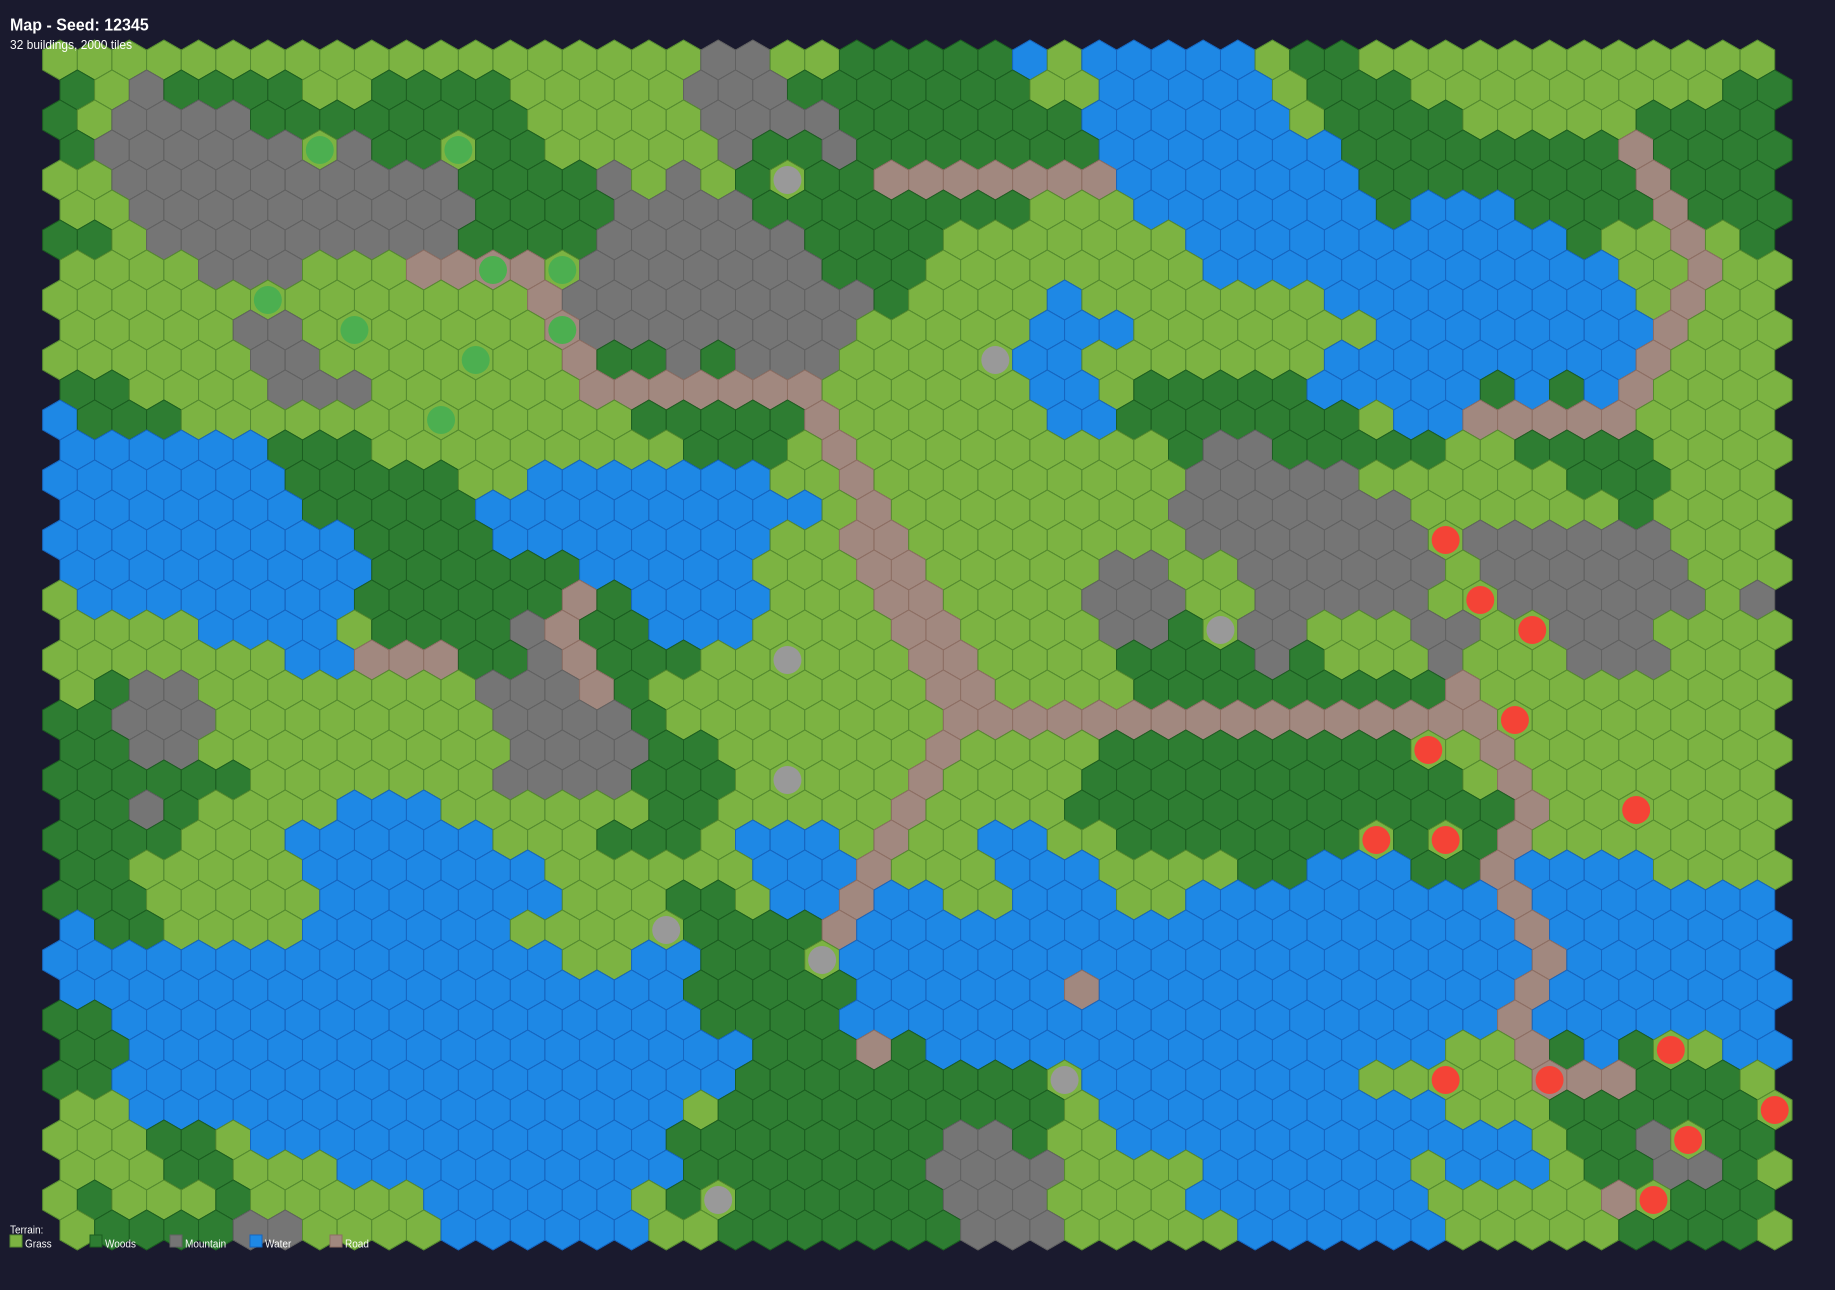
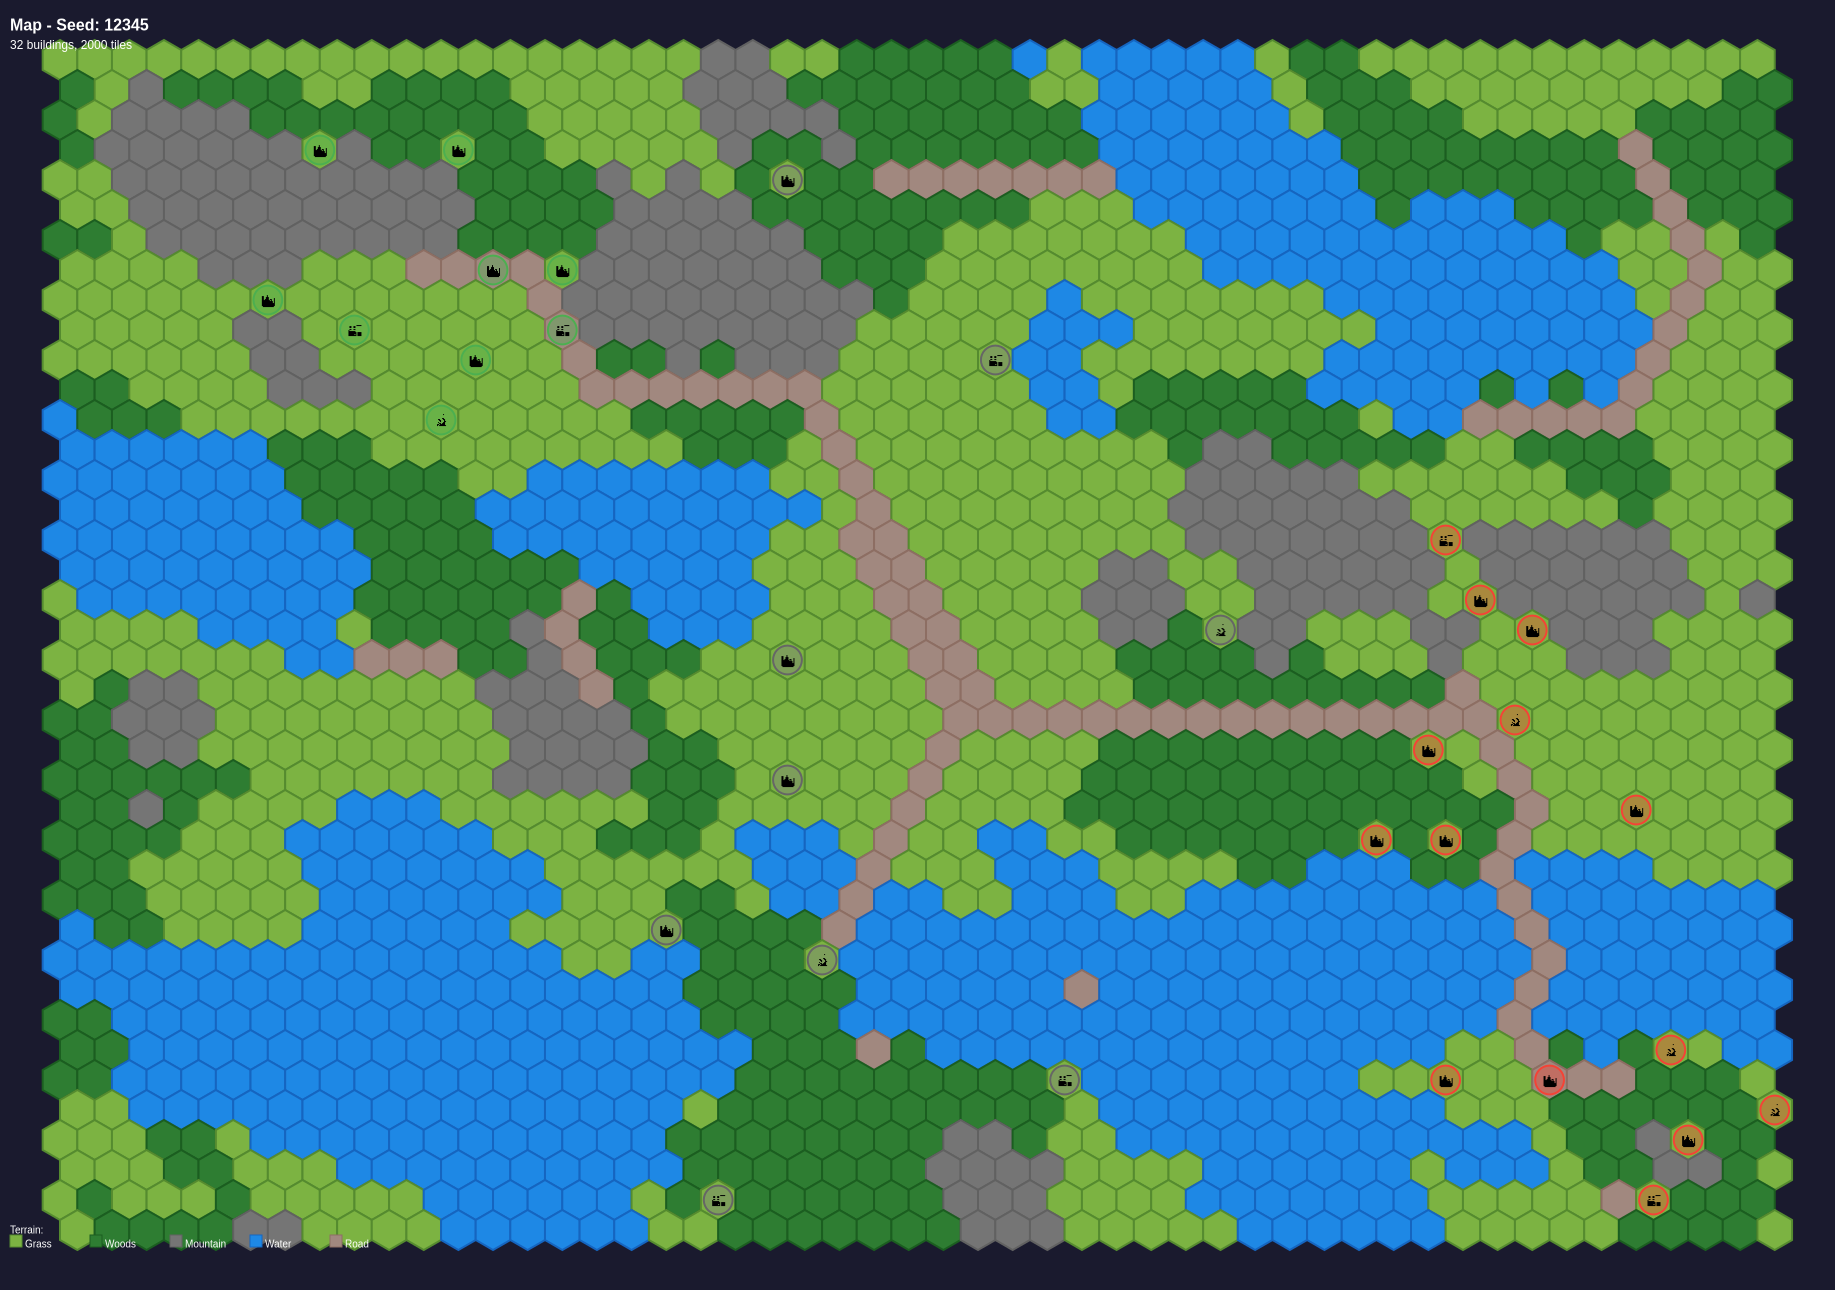
Refactor: Extract shared rendering utilities to eliminate code duplication
Tech debt cleanup to ensure game renderer and map rendering script stay in sync.

Changes:
- Created src/rendering-utils.ts with shared rendering functions:
  - drawHex(): Draws hexagon tiles with consistent styling
  - drawBuildingIcon(): Draws building icons with ownership indicators

- Updated src/renderer.ts to use shared utilities:
  - Simplified drawHex() to use drawHexBase()
  - Simplified drawBuilding() to use drawBuildingIcon()

- Updated scripts/render-maps.ts to use shared utilities:
  - Removed duplicate drawHex() function
  - Removed duplicate building rendering code

Benefits:
- Single source of truth for rendering logic
- Changes to hex/building appearance automatically apply to both game and static renders
- Ensures generated map images accurately reflect in-game appearance
- Reduces maintenance burden

All builds and map rendering tested successfully.

diff --git a/src/renderer.ts b/src/renderer.ts
@@ -7,9 +7,10 @@ import { CONFIG } from './config.js';
 import { GameMap } from './game-map.js';
 import { Viewport } from './viewport.js';
 import { Unit } from './unit.js';
-import { BUILDING_ICONS, type Building } from './building.js';
+import { type Building } from './building.js';
 import { type UnitTemplate } from './unit-templates.js';
 import { type TeamResources } from './resources.js';
+import { drawHex as drawHexBase, drawBuildingIcon } from './rendering-utils.js';
 
 export interface PathPreview {
   path: AxialCoord[];
@@ -287,21 +288,9 @@ export class Renderer {
   private drawHex(cx: number, cy: number, tile: Tile, isHovered: boolean, zoom: number): void {
     const ctx = this.ctx;
     const size = CONFIG.hexSize * zoom;
-    const corners = HexUtil.getHexCorners(cx, cy, size);
-    const colors = TILE_COLORS[tile.type];
 
-    ctx.beginPath();
-    ctx.moveTo(corners[0]!.x, corners[0]!.y);
-    for (let i = 1; i < 6; i++) {
-      ctx.lineTo(corners[i]!.x, corners[i]!.y);
-    }
-    ctx.closePath();
-
-    ctx.fillStyle = colors.fill;
-    ctx.fill();
-    ctx.strokeStyle = colors.stroke;
-    ctx.lineWidth = Math.max(1, 2 * zoom);
-    ctx.stroke();
+    // Use shared rendering utility for base hex drawing
+    drawHexBase(ctx as any, cx, cy, tile, size, { zoom, isHovered });
 
     // Check for building at this tile
     const building = this.map.getBuilding(tile.q, tile.r);
@@ -318,68 +307,13 @@ export class Renderer {
         ctx.fillText(icon, cx, cy);
       }
     }
-
-    if (isHovered) {
-      ctx.fillStyle = 'rgba(255, 255, 255, 0.25)';
-      ctx.fill();
-      ctx.strokeStyle = '#ffffff';
-      ctx.lineWidth = Math.max(1, 3 * zoom);
-      ctx.stroke();
-    }
   }
 
   private drawBuilding(cx: number, cy: number, building: Building, zoom: number, hasUnit: boolean): void {
-    const ctx = this.ctx;
-    const size = CONFIG.hexSize * zoom * 0.6;
-
-    // Draw team color background - larger ring if unit is on top
-    const ringSize = hasUnit ? CONFIG.hexSize * zoom * 0.85 : size * 0.9;
-    const ringWidth = hasUnit ? 4 * zoom : 2 * zoom;
-
-    if (building.owner) {
-      const teamColor = TEAM_COLORS[building.owner];
-      if (teamColor) {
-        ctx.beginPath();
-        ctx.arc(cx, cy, ringSize, 0, Math.PI * 2);
-        if (!hasUnit) {
-          ctx.fillStyle = teamColor.primary + '60'; // 60 = ~37% opacity
-          ctx.fill();
-        }
-        ctx.strokeStyle = teamColor.primary;
-        ctx.lineWidth = ringWidth;
-        ctx.stroke();
-      }
-    } else {
-      // Neutral building - gray background
-      ctx.beginPath();
-      ctx.arc(cx, cy, ringSize, 0, Math.PI * 2);
-      if (!hasUnit) {
-        ctx.fillStyle = 'rgba(128, 128, 128, 0.4)';
-        ctx.fill();
-      }
-      ctx.strokeStyle = '#666666';
-      ctx.lineWidth = ringWidth;
-      ctx.stroke();
-    }
-
-    // Draw building icon (smaller and offset if unit present)
+    // Use shared rendering utility for building icons
     if (zoom > 0.3) {
-      const icon = BUILDING_ICONS[building.type];
-      if (hasUnit) {
-        // Draw small icon in corner
-        const iconSize = size * 0.6;
-        const offsetX = CONFIG.hexSize * zoom * 0.5;
-        const offsetY = -CONFIG.hexSize * zoom * 0.5;
-        ctx.font = `${iconSize}px Arial`;
-        ctx.textAlign = 'center';
-        ctx.textBaseline = 'middle';
-        ctx.fillText(icon, cx + offsetX, cy + offsetY);
-      } else {
-        ctx.font = `${size}px Arial`;
-        ctx.textAlign = 'center';
-        ctx.textBaseline = 'middle';
-        ctx.fillText(icon, cx, cy);
-      }
+      const size = CONFIG.hexSize * zoom * 0.6;
+      drawBuildingIcon(this.ctx as any, cx, cy, building, size, { zoom, hasUnit });
     }
   }
 

diff --git a/src/rendering-utils.ts b/src/rendering-utils.ts
@@ -1,0 +1,138 @@
+// ============================================================================
+// HEX DOMINION - Shared Rendering Utilities
+// ============================================================================
+// This module contains rendering logic shared between the game renderer
+// and the map rendering script, ensuring consistency.
+
+import { HexUtil, TILE_COLORS, type Tile } from './core.js';
+import { BUILDING_ICONS, type Building } from './building.js';
+
+export interface CanvasContext {
+  beginPath(): void;
+  moveTo(x: number, y: number): void;
+  lineTo(x: number, y: number): void;
+  closePath(): void;
+  fill(): void;
+  stroke(): void;
+  arc(x: number, y: number, radius: number, startAngle: number, endAngle: number): void;
+  fillText(text: string, x: number, y: number): void;
+  fillStyle: string;
+  strokeStyle: string;
+  lineWidth: number;
+  font: string;
+  textAlign: string;
+  textBaseline: string;
+}
+
+/**
+ * Draw a hexagon tile at the given position
+ */
+export function drawHex(
+  ctx: CanvasContext,
+  cx: number,
+  cy: number,
+  tile: Tile,
+  size: number,
+  options: {
+    zoom?: number;
+    isHovered?: boolean;
+  } = {}
+): void {
+  const zoom = options.zoom ?? 1;
+  const isHovered = options.isHovered ?? false;
+
+  const corners = HexUtil.getHexCorners(cx, cy, size);
+  const colors = TILE_COLORS[tile.type];
+
+  ctx.beginPath();
+  ctx.moveTo(corners[0]!.x, corners[0]!.y);
+  for (let i = 1; i < 6; i++) {
+    ctx.lineTo(corners[i]!.x, corners[i]!.y);
+  }
+  ctx.closePath();
+
+  ctx.fillStyle = colors.fill;
+  ctx.fill();
+  ctx.strokeStyle = colors.stroke;
+  ctx.lineWidth = Math.max(1, 2 * zoom);
+  ctx.stroke();
+
+  if (isHovered) {
+    ctx.fillStyle = 'rgba(255, 255, 255, 0.25)';
+    ctx.fill();
+    ctx.strokeStyle = '#ffffff';
+    ctx.lineWidth = Math.max(1, 3 * zoom);
+    ctx.stroke();
+  }
+}
+
+/**
+ * Draw a building icon with ownership indicator
+ */
+export function drawBuildingIcon(
+  ctx: CanvasContext,
+  cx: number,
+  cy: number,
+  building: Building,
+  size: number,
+  options: {
+    zoom?: number;
+    hasUnit?: boolean;
+  } = {}
+): void {
+  const zoom = options.zoom ?? 1;
+  const hasUnit = options.hasUnit ?? false;
+  const iconSize = size * (hasUnit ? 0.6 : 1);
+
+  // Draw ownership ring
+  const ringSize = hasUnit ? size * 1.4 : size * 1.2;
+  const ringWidth = hasUnit ? 4 * zoom : 2 * zoom;
+
+  ctx.beginPath();
+  ctx.arc(cx, cy, ringSize, 0, Math.PI * 2);
+
+  if (building.owner === 'player') {
+    if (!hasUnit) {
+      ctx.fillStyle = '#4caf5060'; // Green with transparency
+      ctx.fill();
+    }
+    ctx.strokeStyle = '#4caf50';
+  } else if (building.owner === 'enemy') {
+    if (!hasUnit) {
+      ctx.fillStyle = '#f4433660'; // Red with transparency
+      ctx.fill();
+    }
+    ctx.strokeStyle = '#f44336';
+  } else {
+    // Neutral
+    if (!hasUnit) {
+      ctx.fillStyle = 'rgba(128, 128, 128, 0.4)';
+      ctx.fill();
+    }
+    ctx.strokeStyle = '#666666';
+  }
+
+  ctx.lineWidth = ringWidth;
+  ctx.stroke();
+
+  // Draw building icon
+  const icon = BUILDING_ICONS[building.type];
+
+  if (hasUnit) {
+    // Small icon in corner when unit is present
+    const offsetX = size * 0.8;
+    const offsetY = -size * 0.8;
+    ctx.font = `${iconSize}px Arial`;
+    ctx.textAlign = 'center';
+    ctx.textBaseline = 'middle';
+    ctx.fillStyle = '#000000';
+    ctx.fillText(icon, cx + offsetX, cy + offsetY);
+  } else {
+    // Centered icon when no unit
+    ctx.font = `${iconSize}px Arial`;
+    ctx.textAlign = 'center';
+    ctx.textBaseline = 'middle';
+    ctx.fillStyle = '#000000';
+    ctx.fillText(icon, cx, cy);
+  }
+}

diff --git a/scripts/render-maps.ts b/scripts/render-maps.ts
@@ -6,9 +6,9 @@
 import { createCanvas } from 'canvas';
 import { writeFileSync, mkdirSync } from 'fs';
 import { GameMap } from '../src/game-map.js';
-import { HexUtil, TILE_COLORS, type Tile } from '../src/core.js';
-import { BUILDING_ICONS } from '../src/building.js';
+import { HexUtil, TILE_COLORS } from '../src/core.js';
 import { CONFIG, MAP_CONFIGS } from '../src/config.js';
+import { drawHex, drawBuildingIcon } from '../src/rendering-utils.js';
 
 const HEX_SIZE = 20; // Smaller for overview
 const OUTPUT_DIR = './map-renders';
@@ -56,34 +56,16 @@ function renderMap(map: GameMap, seed: number): Buffer {
     const cx = toCanvasX(world.x);
     const cy = toCanvasY(world.y);
 
-    drawHex(ctx, cx, cy, tile, HEX_SIZE);
+    drawHex(ctx as any, cx, cy, tile, HEX_SIZE);
   }
 
-  // Draw buildings
+  // Draw buildings using shared utility
   for (const building of buildings) {
     const world = HexUtil.axialToPixel(building.q, building.r, HEX_SIZE);
     const cx = toCanvasX(world.x);
     const cy = toCanvasY(world.y);
 
-    // Draw building icon
-    const icon = BUILDING_ICONS[building.type];
-    ctx.font = `${HEX_SIZE * 0.8}px Arial`;
-    ctx.textAlign = 'center';
-    ctx.textBaseline = 'middle';
-
-    // Background circle for building
-    ctx.beginPath();
-    ctx.arc(cx, cy, HEX_SIZE * 0.7, 0, Math.PI * 2);
-    if (building.owner === 'player') {
-      ctx.fillStyle = '#4caf50';
-    } else if (building.owner === 'enemy') {
-      ctx.fillStyle = '#f44336';
-    } else {
-      ctx.fillStyle = '#999999';
-    }
-    ctx.fill();
-
-    ctx.fillText(icon, cx, cy);
+    drawBuildingIcon(ctx as any, cx, cy, building, HEX_SIZE * 0.6);
   }
 
   // Add title
@@ -122,24 +104,6 @@ function renderMap(map: GameMap, seed: number): Buffer {
   }
 
   return canvas.toBuffer('image/png');
-}
-
-function drawHex(ctx: any, cx: number, cy: number, tile: Tile, size: number): void {
-  const corners = HexUtil.getHexCorners(cx, cy, size);
-  const colors = TILE_COLORS[tile.type];
-
-  ctx.beginPath();
-  ctx.moveTo(corners[0]!.x, corners[0]!.y);
-  for (let i = 1; i < 6; i++) {
-    ctx.lineTo(corners[i]!.x, corners[i]!.y);
-  }
-  ctx.closePath();
-
-  ctx.fillStyle = colors.fill;
-  ctx.fill();
-  ctx.strokeStyle = colors.stroke;
-  ctx.lineWidth = 1;
-  ctx.stroke();
 }
 
 // Generate multiple maps with different seeds
